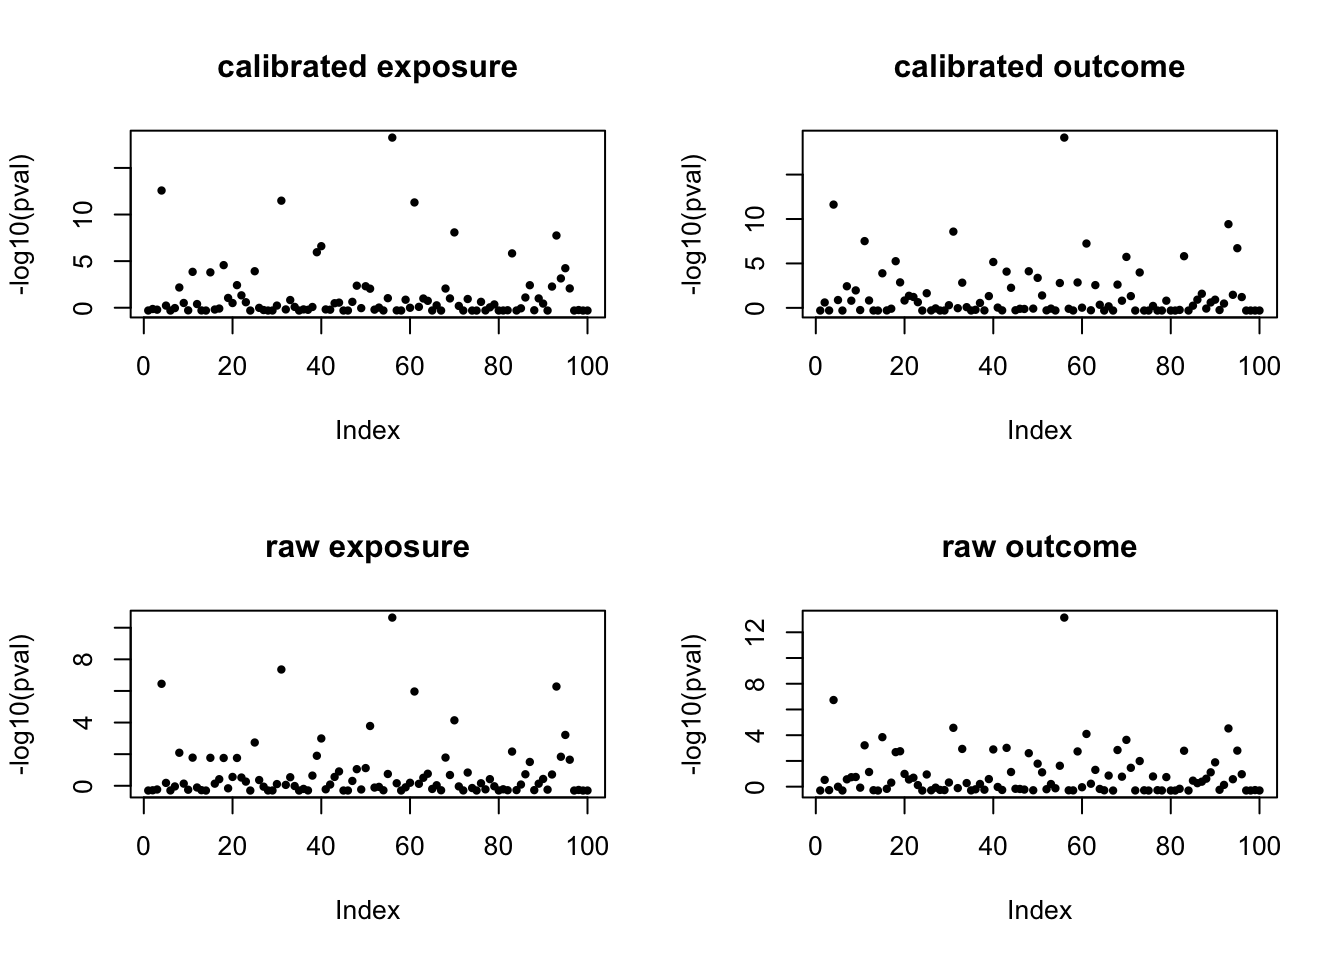
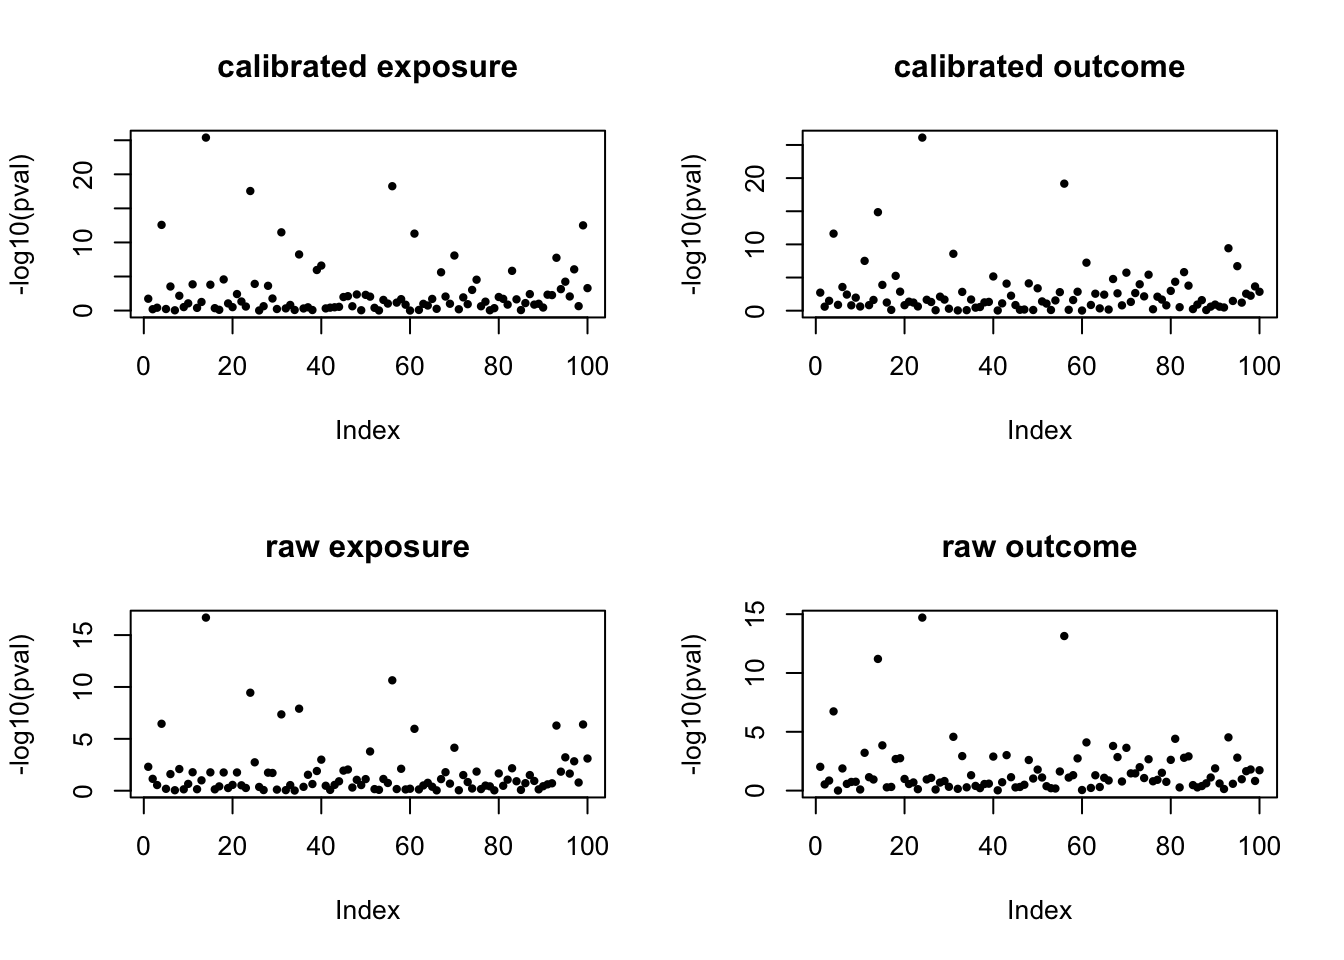
Build site.

diff --git a/docs/mr_real_dat.html b/docs/mr_real_dat.html
@@ -475,16 +475,16 @@ This reproducible <a href="http://rmarkdown.rstudio.com">R Markdown</a> analysis
 <div class="panel panel-default">
 <div class="panel-heading">
 <p class="panel-title">
-<a data-toggle="collapse" data-parent="#workflowr-checks" href="#strongRepositoryversionstrongahrefhttpsgithubcomyunqiyang0215simulationcalibratedmrtree44ecf424aa4b98bc7571eb009a79e615cdf45961targetblank44ecf42a"> <span class="glyphicon glyphicon-ok text-success" aria-hidden="true"></span> <strong>Repository version:</strong> <a href="https://github.com/yunqiyang0215/simulation-calibrated-mr/tree/44ecf424aa4b98bc7571eb009a79e615cdf45961" target="_blank">44ecf42</a> </a>
+<a data-toggle="collapse" data-parent="#workflowr-checks" href="#strongRepositoryversionstrongahrefhttpsgithubcomyunqiyang0215simulationcalibratedmrtreec0e3effdc34ab5449093d7ed230e0d055b6a00ebtargetblankc0e3effa"> <span class="glyphicon glyphicon-ok text-success" aria-hidden="true"></span> <strong>Repository version:</strong> <a href="https://github.com/yunqiyang0215/simulation-calibrated-mr/tree/c0e3effdc34ab5449093d7ed230e0d055b6a00eb" target="_blank">c0e3eff</a> </a>
 </p>
 </div>
[2 lines of base64/hex data omitted]
 <div class="panel-body">
 <p>
 Great! You are using Git for version control. Tracking code development and connecting the code version to the results is critical for reproducibility.
 </p>
 <p>
-The results in this page were generated with repository version <a href="https://github.com/yunqiyang0215/simulation-calibrated-mr/tree/44ecf424aa4b98bc7571eb009a79e615cdf45961" target="_blank">44ecf42</a>. See the <em>Past versions</em> tab to see a history of the changes made to the R Markdown and HTML files.
+The results in this page were generated with repository version <a href="https://github.com/yunqiyang0215/simulation-calibrated-mr/tree/c0e3effdc34ab5449093d7ed230e0d055b6a00eb" target="_blank">c0e3eff</a>. See the <em>Past versions</em> tab to see a history of the changes made to the R Markdown and HTML files.
 </p>
 <p>
 Note that you need to be careful to ensure that all relevant files for the analysis have been committed to Git prior to generating the results (you can use <code>wflow_publish</code> or <code>wflow_git_commit</code>). workflowr only checks the R Markdown file, but you know if there are other scripts or data files that it depends on. Below is the status of the Git repository when the results were generated:
@@ -536,6 +536,40 @@ Message
 </tr>
 </thead>
 <tbody>
+<tr>
+<td>
+Rmd
+</td>
+<td>
+<a href="https://github.com/yunqiyang0215/simulation-calibrated-mr/blob/c0e3effdc34ab5449093d7ed230e0d055b6a00eb/analysis/mr_real_dat.Rmd" target="_blank">c0e3eff</a>
+</td>
+<td>
+yunqiyang0215
+</td>
+<td>
+2023-07-04
+</td>
+<td>
+wflow_publish("analysis/mr_real_dat.Rmd")
+</td>
+</tr>
+<tr>
+<td>
+html
+</td>
+<td>
+<a href="https://rawcdn.githack.com/yunqiyang0215/simulation-calibrated-mr/369fd16c77b29b7782afcc30e9affec8d7f7abb4/docs/mr_real_dat.html" target="_blank">369fd16</a>
+</td>
+<td>
+yunqiyang0215
+</td>
+<td>
+2023-07-04
+</td>
+<td>
+Build site.
+</td>
+</tr>
 <tr>
 <td>
 Rmd
@@ -1517,7 +1551,7 @@ for (i in 1:p){
 <div id="calculate-z-scores" class="section level3">
 <h3>4. Calculate z-scores</h3>
 <pre class="r"><code>z2p &lt;- function(zscore){
-  pval &lt;- pnorm(zscore, mean = 0, sd = 1, lower.tail = FALSE)*2
+  pval &lt;- pnorm(abs(zscore), mean = 0, sd = 1, lower.tail = FALSE)*2
   return(pval)
 }</code></pre>
 <pre class="r"><code>z1.cali = y1.cali[,1]/sqrt(y1.cali[,2])
@@ -1688,6 +1722,17 @@ Date
 </tr>
 </thead>
 <tbody>
+<tr>
+<td>
+<a href="https://github.com/yunqiyang0215/simulation-calibrated-mr/blob/369fd16c77b29b7782afcc30e9affec8d7f7abb4/docs/figure/mr_real_dat.Rmd/unnamed-chunk-11-1.png" target="_blank">369fd16</a>
+</td>
+<td>
+yunqiyang0215
+</td>
+<td>
+2023-07-04
+</td>
+</tr>
 <tr>
 <td>
 <a href="https://github.com/yunqiyang0215/simulation-calibrated-mr/blob/51d7a1ba8a3ee39a83cce70929983122db6e4239/docs/figure/mr_real_dat.Rmd/unnamed-chunk-11-1.png" target="_blank">51d7a1b</a>
